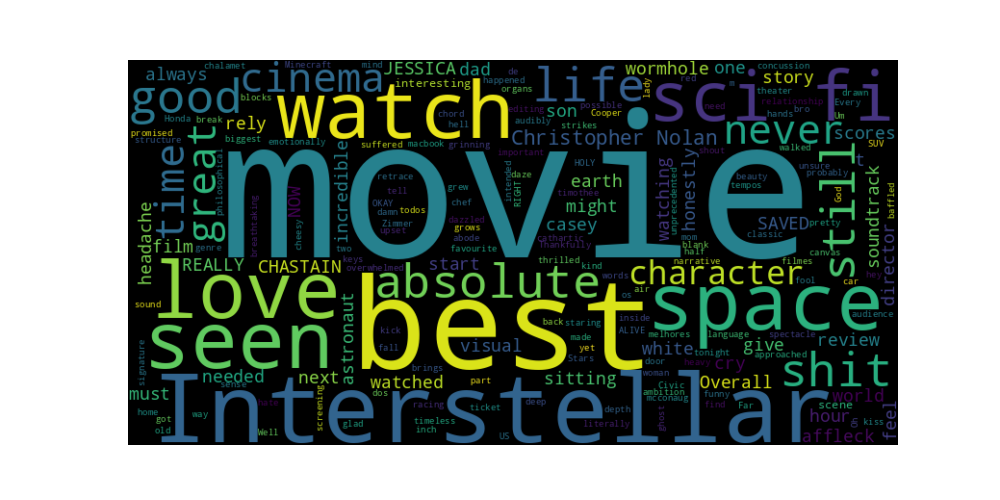
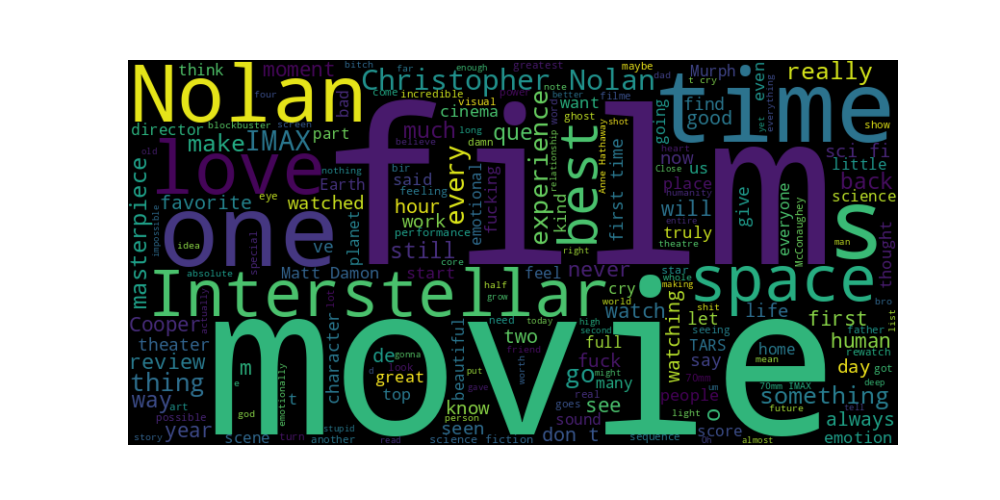
added letterboxd multiple page reviews

diff --git a/imdb_scraper.py b/imdb_scraper.py
@@ -65,8 +65,8 @@ def fetch_letterboxd_reviews(letterboxd_url):
     review_texts = []
 
     # Try to fetch reviews from up to 10 pages
-    for page in range(1, 11):  # You can change 11 to any desired page count limit
-        paged_url = f"{base_url}/page/{page}/"
+    for page in range(1, 15):  # You can change 11 to any desired page count limit
+        paged_url = f"{base_url}//reviews/by/activity/page/{page}/"
         print(f"Fetching: {paged_url}")
         response = requests.get(paged_url)
         if response.status_code != 200:
@@ -90,7 +90,7 @@ def fetch_letterboxd_reviews(letterboxd_url):
 
 def scrape_user_reviews(movie_name):
     """Scrapes user reviews from Rotten Tomatoes for both movies (/m/) and TV shows (/t/)."""
-
+    
     base_url = "https://www.rottentomatoes.com"
     slug = urllib.parse.quote(movie_name.lower().replace(" ", "_"))
 
@@ -101,6 +101,7 @@ def scrape_user_reviews(movie_name):
         "User-Agent": "Mozilla/5.0"
     }
 
+    # First attempt: try both paths (movie and TV show)
     for path in possible_paths:
         full_url = f"{base_url}{path}/reviews?type=user"
         print(f"Trying: {full_url}")
@@ -115,15 +116,37 @@ def scrape_user_reviews(movie_name):
                 if review_text:
                     user_reviews.append(review_text.get_text(strip=True))
 
-            # If we found any reviews, no need to try the other path
-            if user_reviews:
-                break
+    # If no reviews are found, attempt to retry with the movie year
+    if not user_reviews:
+        # You would need a function to get movie details, like 'get_omdb_data()'
+        omdb_data = get_omdb_data(movie_name)  # Assume this function gets the movie year
+        movie_year = omdb_data.get('Year')
 
+        if movie_year:
+            print(f"Movie year found: {movie_year}")
+            for path in possible_paths:
+                # Try with the year appended to the path for both movie and TV show
+                full_url = f"{base_url}{path}_{movie_year}/reviews?type=user"
+                print(f"Trying with year: {full_url}")
+                response = requests.get(full_url, headers=headers)
+
+                if response.status_code == 200:
+                    soup = BeautifulSoup(response.content, 'html.parser')
+                    reviews = soup.find_all('div', class_='audience-review-row')
+
+                    for review in reviews:
+                        review_text = review.find('p', class_='audience-reviews__review js-review-text')
+                        if review_text:
+                            user_reviews.append(review_text.get_text(strip=True))
+
+        else:
+            print("No movie year found. Could not retry with year.")
+
+    # If no reviews are found even after retrying with the year
     if not user_reviews:
         print(f"No reviews found for {movie_name} on Rotten Tomatoes.")
-
+    print("ROTTENT TOMATOES: \n",user_reviews)
     return user_reviews
-
 
 def fetch_movie_reviews_and_details(movie_title, letterboxd_url):
     """Combines OMDb movie details with Letterboxd and Rotten Tomatoes reviews."""

diff --git a/app.py b/app.py
@@ -405,6 +405,7 @@ def index():
                 generate_word_cloud(reviews)
                 create_visualizations(sentiments, polarity_scores, movie_details)
                 
+                # print("POSITVE REVIEWS: ###### \n",positive_reviews)
                 # Convert keywords to JSON
                 positive_keywords_json = json.dumps(dict(positive_keywords))
                 negative_keywords_json = json.dumps(dict(negative_keywords))
